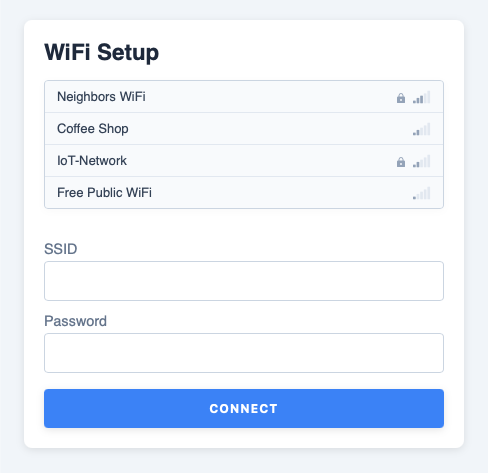
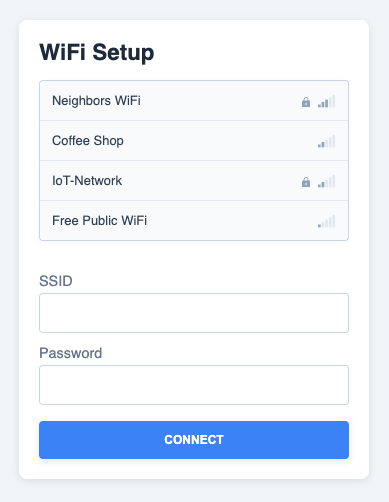
Minor visual change.

diff --git a/src/html/portal.html b/src/html/portal.html
@@ -56,7 +56,7 @@
             background: #2563eb;
         }
         #nets {
-            max-height: 200px;
+            max-height: 250px;
             overflow-y: auto;
             margin-bottom: 12px;
             border: 1px solid #cbd5e1;
@@ -88,7 +88,7 @@
             to   { transform: rotate(360deg); }
         }
         .net {
-            padding: 8px 12px;
+            padding: 12px 12px;
             
             background: #f8fafc;
             cursor: pointer;
